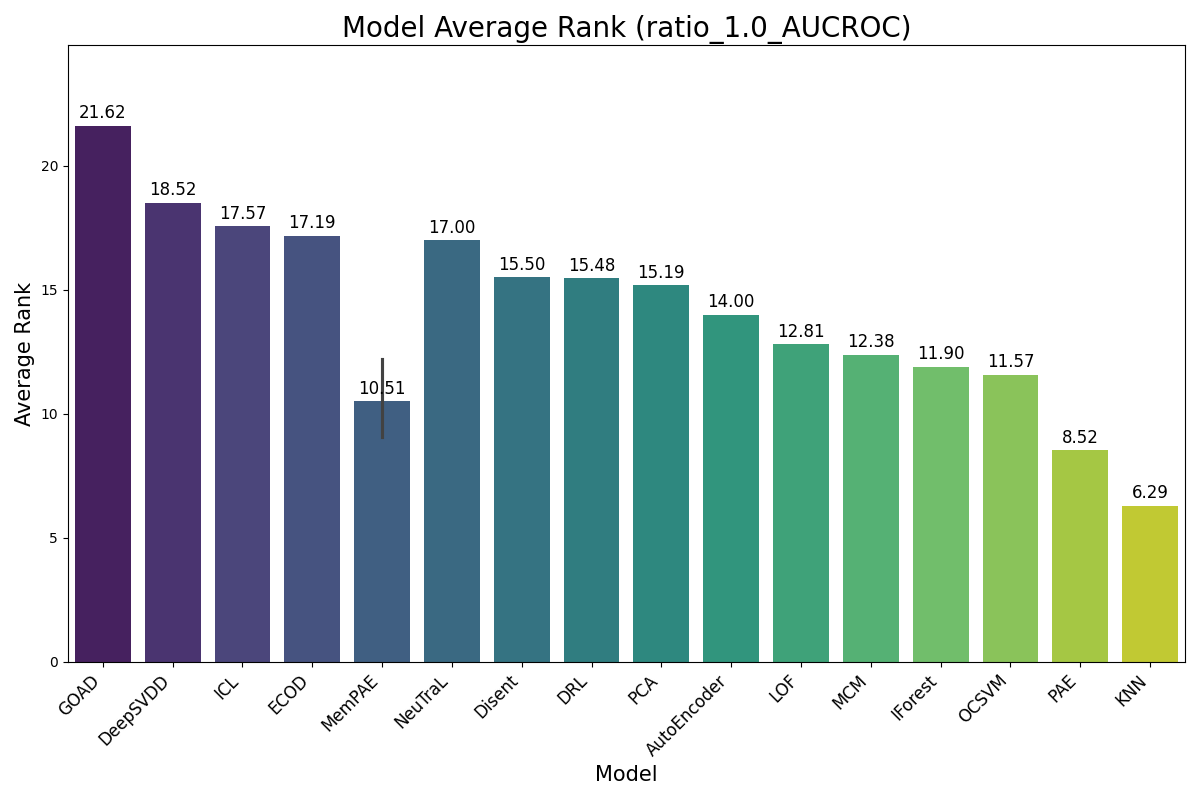
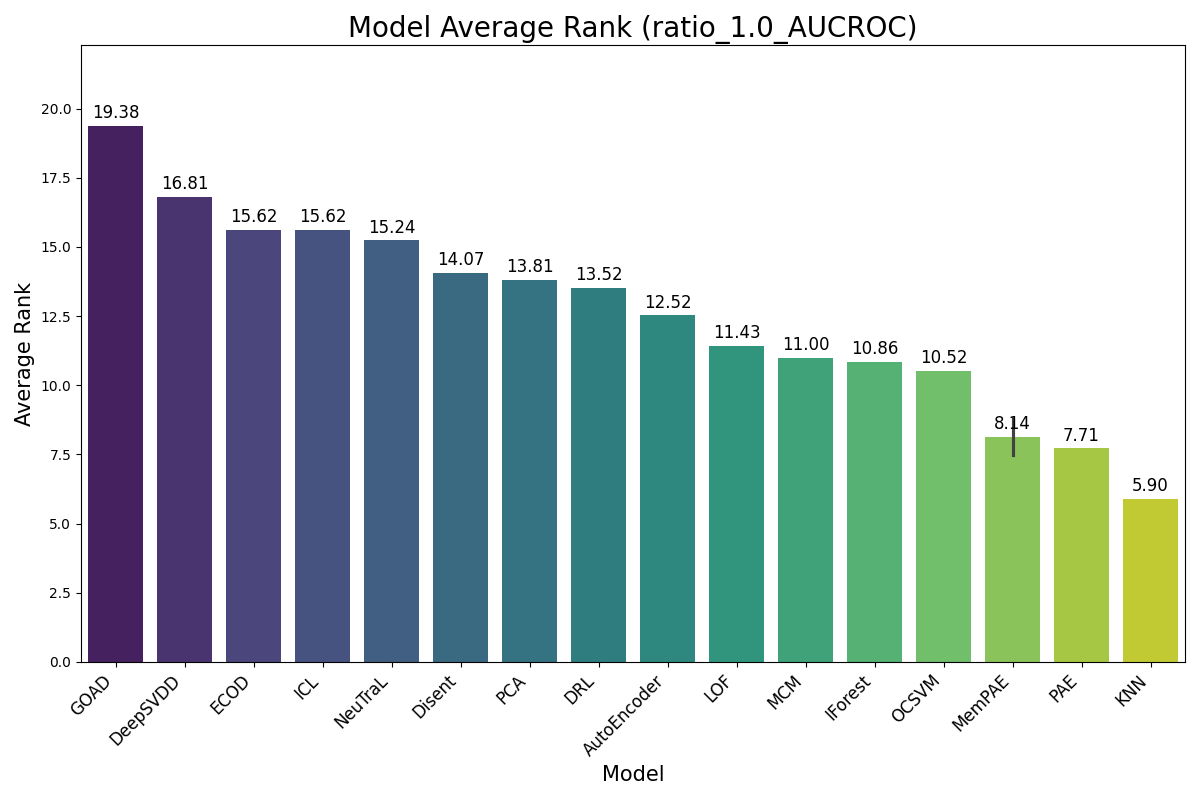
temp

diff --git a/summary.py b/summary.py
@@ -464,15 +464,15 @@ def main(args):
 
         'MemPAE-ws-cross_attn-rin-pos_query+token-d64-lr0.001',
         # 'MemPAE-ws-rin-pos_query+token-d64-lr0.001-t0.1',
-        'MemPAE-ws-cross_attn-pos_query+token-use_ent_score-ent0.01-d64-lr0.001',
+        # 'MemPAE-ws-cross_attn-pos_query+token-use_ent_score-ent0.01-d64-lr0.001',
         'MemPAE-ws-cross_attn-pos_query+token-use_ent_score-ent0.001-d64-lr0.001',
         'MemPAE-ws-cross_attn-pos_query+token-d64-lr0.001',
-        'MemPAE-ws-cross_attn-rin-pos_query+token-L2-d64-lr0.001',
+        # 'MemPAE-ws-cross_attn-rin-pos_query+token-L2-d64-lr0.001',
         'MemPAE-ws-cross_attn-rin-pos_query+token-d32-lr0.001',
         # 'MemPAE-ws-cross_attn-rin-pos_query+token-d32-lr0.005',
         # 'MemPAE-ws-cross_attn-rin-pos_query+token-d64-lr0.005',
-        'MemPAE-ws-cross_attn-rin-pos_query+token-L6-d32-lr0.001',
-        'MemPAE-ws-cross_attn-rin-pos_query+token-L6-d64-lr0.001',
+        # 'MemPAE-ws-cross_attn-rin-pos_query+token-L6-d32-lr0.001',
+        # 'MemPAE-ws-cross_attn-rin-pos_query+token-L6-d64-lr0.001',
 
         # 'MemPAE-ws-pos_query-d64-lr0.001', # without toekn bad no temperature.
 
